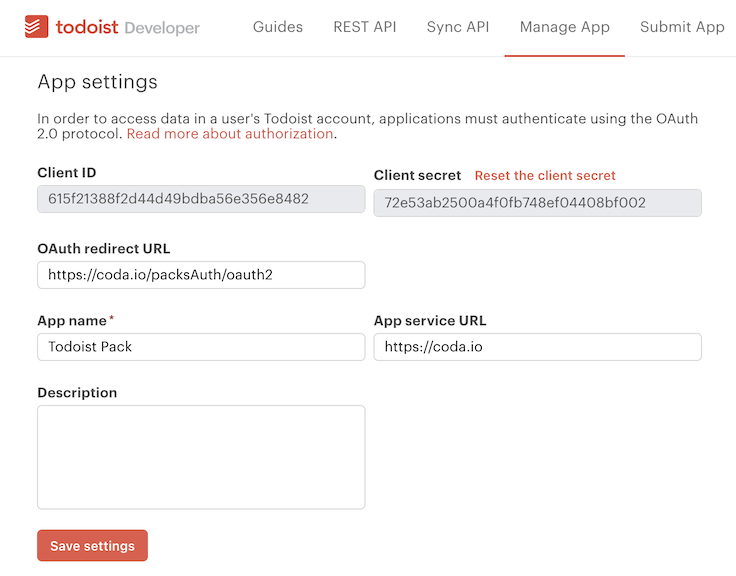
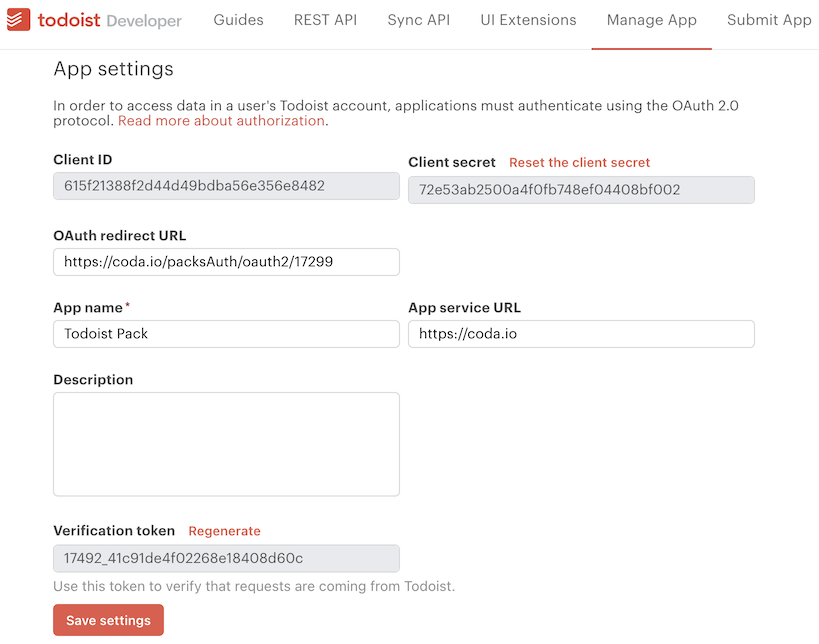
Update the documentation with the new OAuth2 redirect URLs (#2369)
* Text changes

* Add images and remove TODO

* A few more fixes

diff --git a/docs/embedded-snippets/samples/snippets/authentication/oauth2.html b/docs/embedded-snippets/samples/snippets/authentication/oauth2.html
@@ -16,7 +16,7 @@
 
       require(['vs/editor/editor.main'], function () {
         var editor = monaco.editor.create(document.getElementById('container'), {
-          value: "// When registering your app in the API's developer console set the redirect URL\n// to: https://coda.io/packsAuth/oauth2\n// After building your Pack, remember to visit the Settings tab to set your\n// client ID and secret.\npack.setUserAuthentication({\n  type: coda.AuthenticationType.OAuth2,\n  // The following two URLs are will be found in the API's documentation.\n  authorizationUrl: \"<Authorization URL>\",\n  tokenUrl: \"<Token URL>\",\n});",
+          value: "// When registering your app in the API's developer console set the redirect URL\n// to: https://coda.io/packsAuth/oauth2/{PACK ID}\n// After building your Pack, remember to visit the Settings tab to set your\n// client ID and secret.\npack.setUserAuthentication({\n  type: coda.AuthenticationType.OAuth2,\n  // The following two URLs are will be found in the API's documentation.\n  authorizationUrl: \"<Authorization URL>\",\n  tokenUrl: \"<Token URL>\",\n});",
           language: 'javascript',
           minimap: {enabled: false},
           readOnly: true,

diff --git a/documentation/samples/snippets/authentication/oauth2.ts b/documentation/samples/snippets/authentication/oauth2.ts
@@ -5,7 +5,7 @@ const pack = coda.newPack();
 // BEGIN
 
 // When registering your app in the API's developer console set the redirect URL
-// to: https://coda.io/packsAuth/oauth2
+// to: https://coda.io/packsAuth/oauth2/{PACK ID}
 // After building your Pack, remember to visit the Settings tab to set your
 // client ID and secret.
 pack.setUserAuthentication({

diff --git a/docs/tutorials/build/oauth.md b/docs/tutorials/build/oauth.md
@@ -169,29 +169,11 @@ Most API providers host a developer console for creating and managing applicatio
     </div>
     </section>
 
+---
 
-=== ":material-numeric-3-circle: Edit settings"
+### Hold tight
 
-    <section class="tutorial-row" markdown>
-    <div markdown>
-
-    The settings screen for your application includes the client ID and secret you'll need during the OAuth2 flow. You'll have to enter those into the Pack Studio later.
-
-    It's important to set the **OAuth redirect URL** field. This is the URL that the user's browser is sent to after they approve access. All packs use the same value for this URL:
-
-    ```
-    https://coda.io/packsAuth/oauth2
-    ```
-
-    Click the **Save settings** button to save your changes.
-
-    </div>
-    <div markdown>
-
-    <img src="../../../images/tutorial_oauth_settings.png" srcset="../../../images/tutorial_oauth_settings_2x.png 2x" class="screenshot" alt="The settings for the new application">
-
-    </div>
-    </section>
+There is a bit more configuration needed to complete the application setup, but we'll get to that in a later step. Keep this tab open as you'll need to refer back to it later.
 
 
 ## :material-ruler-square-compass: Design the formula
@@ -443,12 +425,50 @@ The code we've written so far includes only public information about the OAuth f
     </section>
 
 
-=== ":material-numeric-2-circle: Set credentials"
+=== ":material-numeric-2-circle: Copy redirect URL"
 
     <section class="tutorial-row" markdown>
     <div markdown>
 
-    Enter the client ID and secret you received when you registered you application with Todoist.
+    The field **Redirect URL** shows the redirect URL for your Pack. This is the URL that Todoist should send users back to after they have approved access to their account.
+
+    Click the copy icon (:material-clipboard-outline:) next to the redirect URL to copy it to your clipboard.
+
+    </div>
+    <div markdown>
+
+    <img src="../../../images/tutorial_oauth_pack_redirect.png" srcset="../../../images/tutorial_oauth_pack_redirect_2x.png 2x" class="screenshot" alt="The redirect URL shown in the OAuth settings">
+
+    </div>
+    </section>
+
+
+=== ":material-numeric-3-circle: Edit application settings"
+
+    <section class="tutorial-row" markdown>
+    <div markdown>
+
+    Go back to your application settings in the Todoist App Management Console.
+
+    Set the **OAuth redirect URL** field to the value you copied above and click the **Save settings** button. Todoist will use this to verify that no other applications use this set of credentials.
+
+    Next copy the **Client ID** and **Client secret** shown on that screen. We need to provide this to your Pack so Coda can properly identify it during the OAuth flow.
+
+    </div>
+    <div markdown>
+
+    <img src="../../../images/tutorial_oauth_settings.png" srcset="../../../images/tutorial_oauth_settings_2x.png 2x" class="screenshot" alt="The settings for the new application">
+
+    </div>
+    </section>
+
+
+=== ":material-numeric-4-circle: Set credentials"
+
+    <section class="tutorial-row" markdown>
+    <div markdown>
+
+    Back in the **Add OAuth credentials** dialog open in the Pack Studio, enter the client ID and secret you copied.
 
     Click the **Save** button.
 

diff --git a/docs/guides/faq.md b/docs/guides/faq.md
@@ -12,10 +12,10 @@ To connect to a Google API from a Pack you need to use OAuth2 authentication. Ma
 !!! info "Exceptions"
     There are some [exceptions to Google's verification requirement][google_verification_exceptions], for example an app only used internally within a single organization. Check this list first before beginning the verification process.
 
-One of the checks is that Google must verify you own the domain name for all of the domains used by the integration. This includes the redirect URI that users are sent to after they complete the approval screen. For Coda Packs this redirect URL is always:
+One of the checks is that Google must verify you own the domain name for all of the domains used by the integration. This includes the redirect URI that users are sent to after they complete the approval screen. For Coda Packs this redirect URL follows the pattern:
 
 ```
-https://coda.io/packsAuth/oauth2
+https://coda.io/packsAuth/oauth2/{PACK ID}
 ```
 
 To meet Google's verification requirements you would need to verify ownership of the `coda.io` domain, which isn't possible. However [Google's FAQ][google_verification_line] includes this line:
@@ -28,7 +28,7 @@ Although Google includes an exception for apps that don't own the domain of thei
 - Ensure you have a privacy policy published, even if it's just a minimal one. It can live in the published doc mentioned above.
 - Record a video showing the installation and usage of the Pack.
 - In the verification form there is a field that asks for a similar app that has been verified, and you can refer them to the previously approved [Apps Script Pack][packs_apps_script], with project number 367090187070.
-- If they insist on proof of ownership of `coda.io`, quote the clause from the FAQ and mention that Coda requires that everyone uses the same redirect URL. You can link them to [this section][oauth_redirect] of the OAuth documentation.
+- If they insist on proof of ownership of `coda.io`, quote the clause from the FAQ and mention that Coda requires that everyone uses a redirect URL hosted on `coda.io`. You can link them to [this section][oauth_redirect] of the OAuth documentation.
 - If they insist that a branded "Google Sign-in" button be used to start the OAuth flow, mention that the Coda platform controls these buttons and that you can't change them.
 
 With enough persistence you should be able to get your Pack verified. The process may take a week or more to complete, so plan accordingly.

diff --git a/docs/guides/basics/authentication/oauth2.md b/docs/guides/basics/authentication/oauth2.md
@@ -69,11 +69,16 @@ These credentials identify your application and are the same for every user that
 
 #### Redirect URL
 
-When registering you application in the API provider's console you will be asked to provide a redirect URL. This is where the provider should redirect the user to after they have signed in and approved access. When building a Pack this value should always be set to:
+When registering you application in the API provider's console you will be asked to provide a redirect URL. This is where the provider should redirect the user to after they have signed in and approved access.
+
+The **Add OAuth credentials** dialog discussed above will show the redirect URL to use for your Pack and allow you to copy it to your clipboard. In general it follows the pattern:
 
 ```
-https://coda.io/packsAuth/oauth2
+https://coda.io/packsAuth/oauth2/{PACK ID}
 ```
+
+!!! warning "Legacy redirect URLs"
+    Previously the redirect URL for a Pack didn't include the Pack ID. We still support this using the **Legacy** option in the dropdown menu, but for greater security Packs should migrate to using the newer Pack-specific URLs.
 
 
 ## Token expiry and refresh
